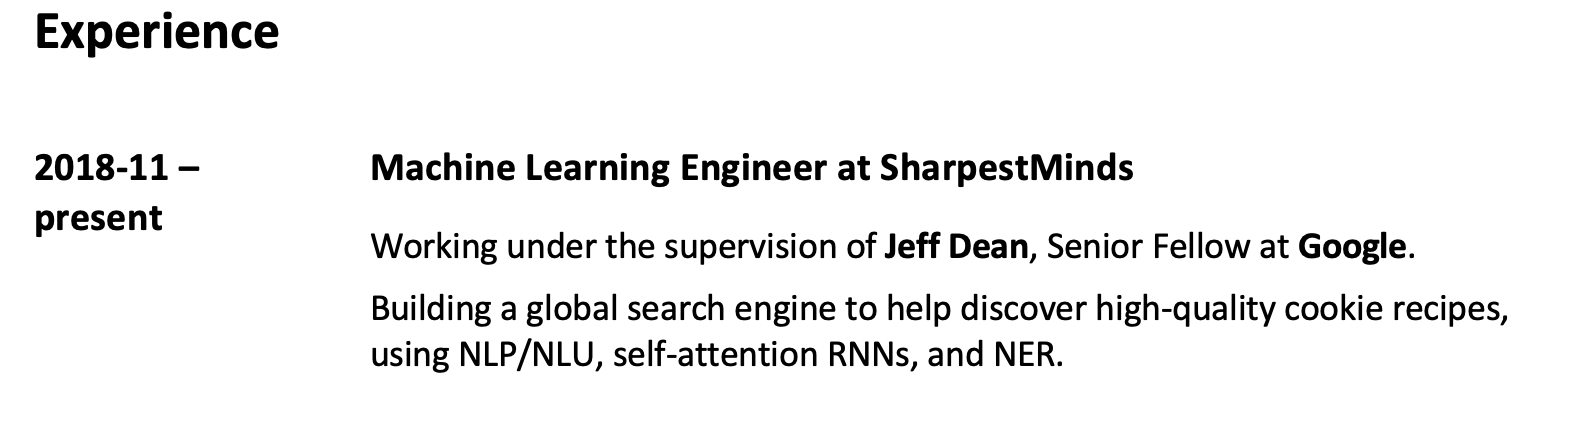
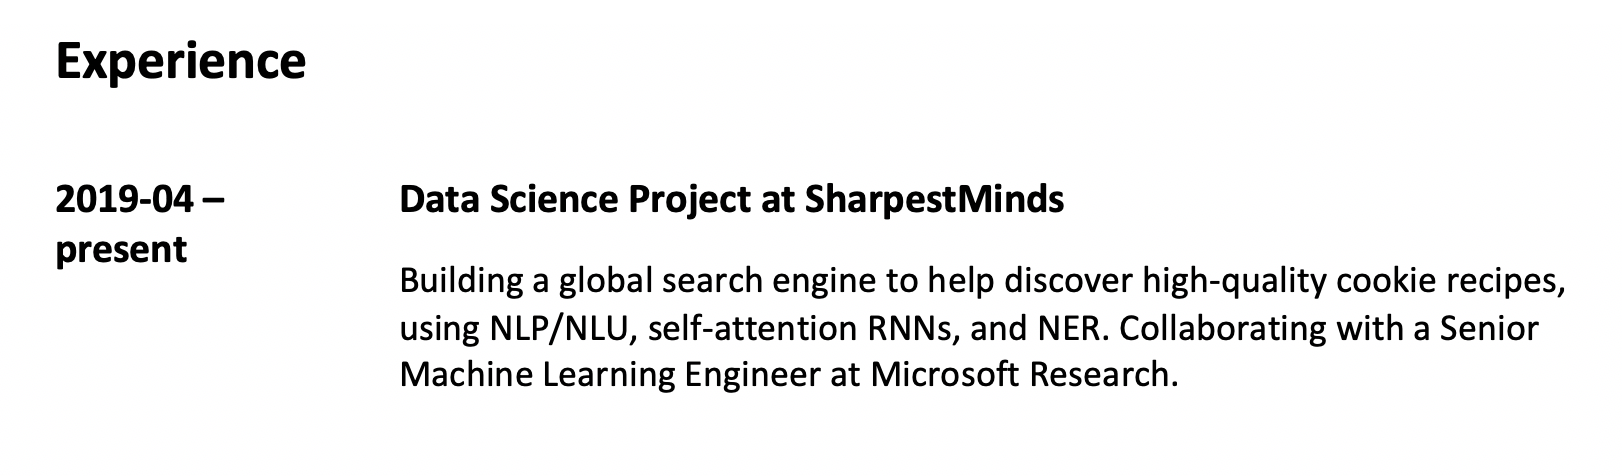
Update SharpestMinds in resume example

diff --git a/README.md b/README.md
@@ -32,24 +32,6 @@ In addition to what's below, you'll find more useful information on [our blog pa
 
 4. If you write a good blog post, let us know and we'll promote it. We can give you **significant** reach: SharpestMinds content gets **over a quarter of a million** monthly views across all social media platforms, and we have deals with major data science publications like [KDNuggets](https://www.kdnuggets.com) and [Towards Data Science](https://towardsdatascience.com).
 
-# Checklist: once you hit the halfway point of your mentorship
-
-1. Make a list of all the regular, small, technical [meetups](https://www.meetup.com) in your city. Ideally something where you discuss a paper or write actual code in a workshop. Start going, even if you sit in a corner and do nothing the first couple of times. The benefit of having industry people see your face every week compounds quickly.
-
-2. Check out our list of hiring partners [at the bottom of this page](https://app.sharpestminds.com/mentee/companies). We can often give warm introductions to many of the companies on this list, which lets you to skip their HR screens - a big advantage. **Please keep this list confidential.** You can request warm intros to companies directly through the SharpestMinds web app.
-
-3. Start applying to jobs. Here are some good places to apply for ML jobs [that aren't generally known](https://towardsdatascience.com/what-no-one-will-tell-you-about-data-science-job-applications-bff2d4b5e983):
-
-   👉 Applying through [Key Values](https://www.keyvalues.com) sends a good signal to hiring managers, because they tend to attract good engineers as applicants. (Applying through Indeed sends a bad signal to hiring managers, so you shouldn't do it.)
-
-   👉 Y Combinator's [Work At A Startup](https://www.workatastartup.com) page is another great one. This lets you submit a single application to all YC companies.
-
-   👉 [Hacker News](https://news.ycombinator.com) puts up a "Who Is Hiring?" post every month where companies post open jobs. A great hack is to look up all the past Who Is Hiring posts [at this URL](https://news.ycombinator.com/submitted?id=whoishiring). Instructions on how to apply to each job are included in the comments. Check it out!
-
-   👉 The [Comet ML newsletter](https://www.getrevue.co/profile/mljobs?utm_campaign=Issue&utm_content=forwarded&utm_medium=email&utm_source=ML+Jobs+Newsletter) is another great place to apply for ML jobs. We highly recommend subscribing: you'll get a list of ML jobs delivered to your inbox every two weeks.
-
-7. If the hiring manager whose group / company you're trying to join has a Twitter account, follow it. If they have a blog, read it. Same goes for engineers in the group / company you're trying to join.
-
 # Job search, part 1: creating first impressions
 
 Later on I'll cover how to reach out to companies in your job search. Before that, you need to prepare the way for yourself. In this section I'll cover how to curate your online presence to make your value obvious.
@@ -399,19 +381,18 @@ A realistic target if you're actively applying for jobs is ~3 of these emails pe
 
 2. You can also look on job boards to find open positions - just don't use job boards to apply. Good job boards you can use to search:
 
-    - Obviously [Indeed](http://indeed.com), [AngelList](https://angel.co) and [GlassDoor](http://glassdoor.com)
-    - [Remote ML](https://remoteml.com)
+    - The big ones: [Indeed](http://indeed.com), [AngelList](https://angel.co) and [Glassdoor](http://glassdoor.com)
+    - [Remote ML](https://remoteml.com) is a board for remote ML jobs
     - [The Comet ML newsletter](https://www.getrevue.co/profile/mljobs?utm_campaign=Issue&utm_content=forwarded&utm_medium=email&utm_source=ML+Jobs+Newsletter) (subscription link at the top of the page)
     - [Key Values](https://www.keyvalues.com)
     - [Work At A Startup](http://workatastartup.com)
-    - [Hacker News](https://news.ycombinator.com) puts up a "Who Is Hiring?" post every month where companies post open jobs. A great hack is to look up all the past Who Is Hiring posts [at this URL](https://news.ycombinator.com/submitted?id=whoishiring).
-
+    - [Hacker News](https://news.ycombinator.com) puts up a "Who Is Hiring?" post every month where companies post open jobs. You can look up all the past Who Is Hiring posts [at this URL](https://news.ycombinator.com/submitted?id=whoishiring).
 
 3. The best thing to do is to create a spreadsheet to list the companies that are hiring that you want to apply to. Start with ~10 companies on your spreadsheet to get used to the reach-out process. You can add more later on.
 
 **Step 2: Find people in those companies who are hiring:**
 
-The second step is to find people who are actively hiring for their companies.
+The second step is to find people who are actively hiring for their companies. If you did a search for "hiring" in Step 1, those people are good places to start. Otherwise, the best people to start with are below.
 
 **For companies of ~100 employees or less, the person you should contact is the company's CEO.** It might seem scary to email a CEO, but understand that CEOs are in charge of the hiring objectives for their companies.
 
@@ -440,8 +421,6 @@ Here's how to find people who are hiring at their companies:
 5. Add the person's name and LinkedIn name to your spreadsheet.
 
 **Step 3: Research the people who are hiring**
-
-You're going to be emailing the
 
 Under construction! 🏗
 
@@ -603,8 +582,6 @@ The best way to think about it is this: your job is to keep applying to position
 
 ### How do I add SharpestMinds to my resume?
 
-You should mention your mentor's name and company (unless your mentor asks you not to), so that their prestige will rub off on you. We'll continue to support you even after your mentorship ends, so it's correct to say on your resume that you're still at SharpestMinds, even if your mentorship term has ended. Here's an example of how to include SharpestMinds on your resume:
+It can help to mention your mentor's company on your resume if it's well-known. We'll continue to support you even after your mentorship ends, so it's correct to say on your resume that you're still at SharpestMinds, even if your mentorship term has ended. Here's an example of how to include SharpestMinds on your resume:
 
    ![How to include SharpestMinds on your resume](https://github.com/sharpest-minds/hiring-tips/blob/master/img/sm-in-resume.png)
-
-**Important:** If you haven't been in the program very long (2 months or less), you should title this, e.g., "Machine Learning Engineer (Project)" instead of just "Machine Learning Engineer". If recruiters see you've only been a Data Scientist for a month, they may wonder why you're trying to switch jobs so soon!
